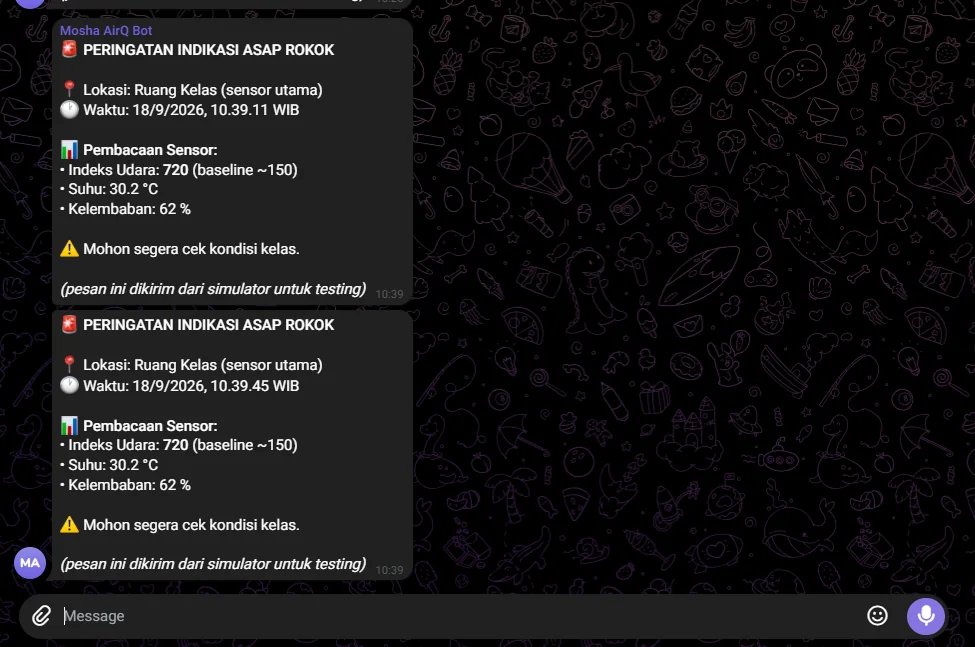
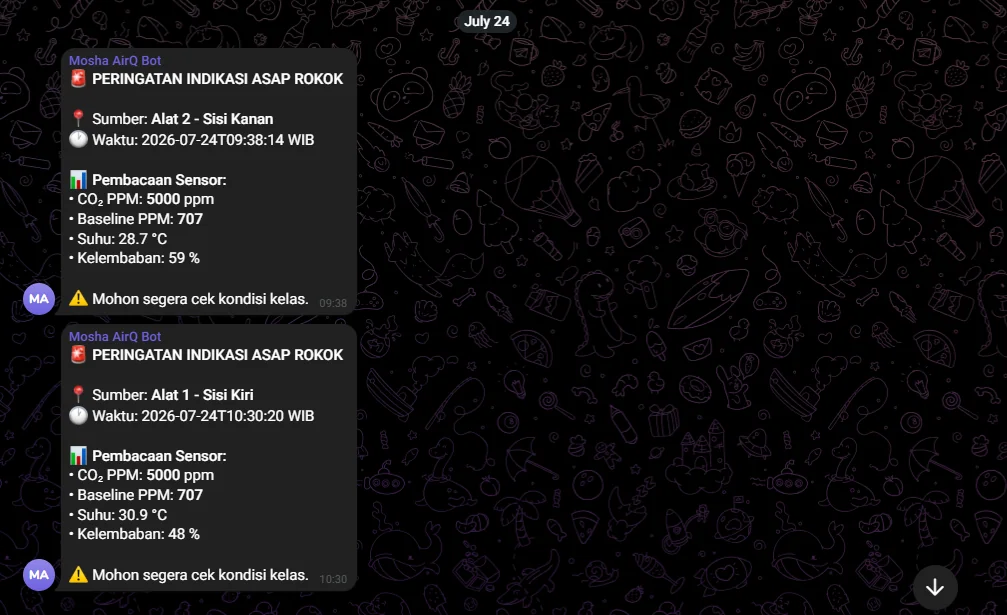
Use a real Mosha AirQ smoke alert instead of a simulator test

diff --git a/js/main.js b/js/main.js
@@ -307,7 +307,7 @@ const PROJECTS = [
       ["mosha-photo", { en: "The Mosha AirQ unit: MQ-135 gas sensor and temperature and humidity sensor in a 3D printed case", id: "Unit Mosha AirQ: sensor gas MQ-135 dan sensor suhu kelembapan dalam casing cetak 3D" }],
       ["mosha-inside", { en: "Inside: ESP32 wired to the sensor modules", id: "Bagian dalam: ESP32 terhubung ke modul sensor" }],
       ["mosha-dashboard", { en: "Realtime dashboard for one classroom", id: "Dashboard realtime untuk satu ruang kelas" }],
-      ["mosha-telegram", { en: "Telegram alert sent to teachers (simulator test)", id: "Peringatan Telegram ke guru (uji dengan simulator)" }],
+      ["mosha-telegram", { en: "Real smoke alerts from two devices in a classroom, sent to the teachers' Telegram group", id: "Peringatan asap asli dari dua alat di ruang kelas, terkirim ke grup Telegram guru" }],
       ["mosha-results", { en: "Clean air vs smoking, 30 readings each", id: "Udara bersih vs merokok, masing masing 30 data" }],
       ["mosha-compare", { en: "Readings during smoking and one hour later", id: "Pembacaan saat merokok dan satu jam setelahnya" }],
       ["mosha-timeline", { en: "Full test timeline with the 1500 PPM detection threshold", id: "Timeline pengujian lengkap dengan ambang deteksi 1500 PPM" }]
